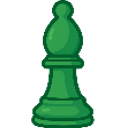
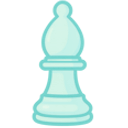
Changed the colours of bishops and knights so that their danger versions are distinguishable. Made the danger tiles flash stronger

diff --git a/pixi-project/src/main.ts b/pixi-project/src/main.ts
@@ -1,4 +1,4 @@
-import { Container } from 'pixi.js';
+import { Container, Text, TextStyle } from 'pixi.js';
 import { createApp, centerStage } from './game/ui/app';
 import { loadPieceTextures } from './game/ui/assets';
 import { GameBoard } from './game/game_board/GameBoard';
@@ -16,6 +16,32 @@ async function start(): Promise<void> {
 
   const textures = await loadPieceTextures();
 
+  // Create game title
+  const gameTitle = new Text('SURVIVAL CHESS', new TextStyle({
+    fontFamily: 'Arial',
+    fontSize: 32,
+    fill: 0xffffff,
+    fontWeight: 'bold',
+    align: 'center'
+  }));
+  gameTitle.anchor.set(0.5, 0);
+  gameTitle.x = (TILE * 5) / 2; // Center above the 5x5 board
+  gameTitle.y = -60;
+
+  // Create objective subtitle
+  const objective = new Text('Save targeted pieces from danger zones before time runs out!', new TextStyle({
+    fontFamily: 'Arial',
+    fontSize: 16,
+    fill: 0xcccccc,
+    fontWeight: 'normal',
+    align: 'center',
+    wordWrap: true,
+    wordWrapWidth: TILE * 5 + 200 // Allow wrapping across board + UI width
+  }));
+  objective.anchor.set(0.5, 0);
+  objective.x = (TILE * 5) / 2;
+  objective.y = -25;
+
   const game = new GameBoard();
   const controller = new GameController(game);
   const view = new BoardView(controller, textures);
@@ -25,6 +51,8 @@ async function start(): Promise<void> {
   const boardSize = TILE * 5; // 5x5 board
   gameUI.position(boardSize + 20, 20);
 
+  root.addChild(gameTitle);
+  root.addChild(objective);
   root.addChild(view.root);
   root.addChild(gameUI.root);
 

diff --git a/pixi-project/src/game/ui/BoardView.ts b/pixi-project/src/game/ui/BoardView.ts
@@ -133,16 +133,16 @@ export class BoardView {
     for (const target of targets) {
       // Create pulsing red overlay for danger tiles
       const dangerTile = new Graphics();
-      dangerTile.beginFill(0xff0000, 0.3); // Semi-transparent red
+      dangerTile.beginFill(0xff2222, 1.0); // Bright red, full opacity
       dangerTile.drawRect(0, 0, TILE, TILE);
       dangerTile.endFill();
       dangerTile.x = target.col * TILE;
       dangerTile.y = target.row * TILE;
 
-      // Add pulsing animation
-      const pulseSpeed = 0.05;
-      const minAlpha = 0.2;
-      const maxAlpha = 0.5;
+      // Add stronger pulsing animation
+      const pulseSpeed = 0.08; // Faster pulsing
+      const minAlpha = 0.1; // More dramatic fade out
+      const maxAlpha = 0.8; // Much brighter peak
       let increasing = true;
       
       const animate = () => {
